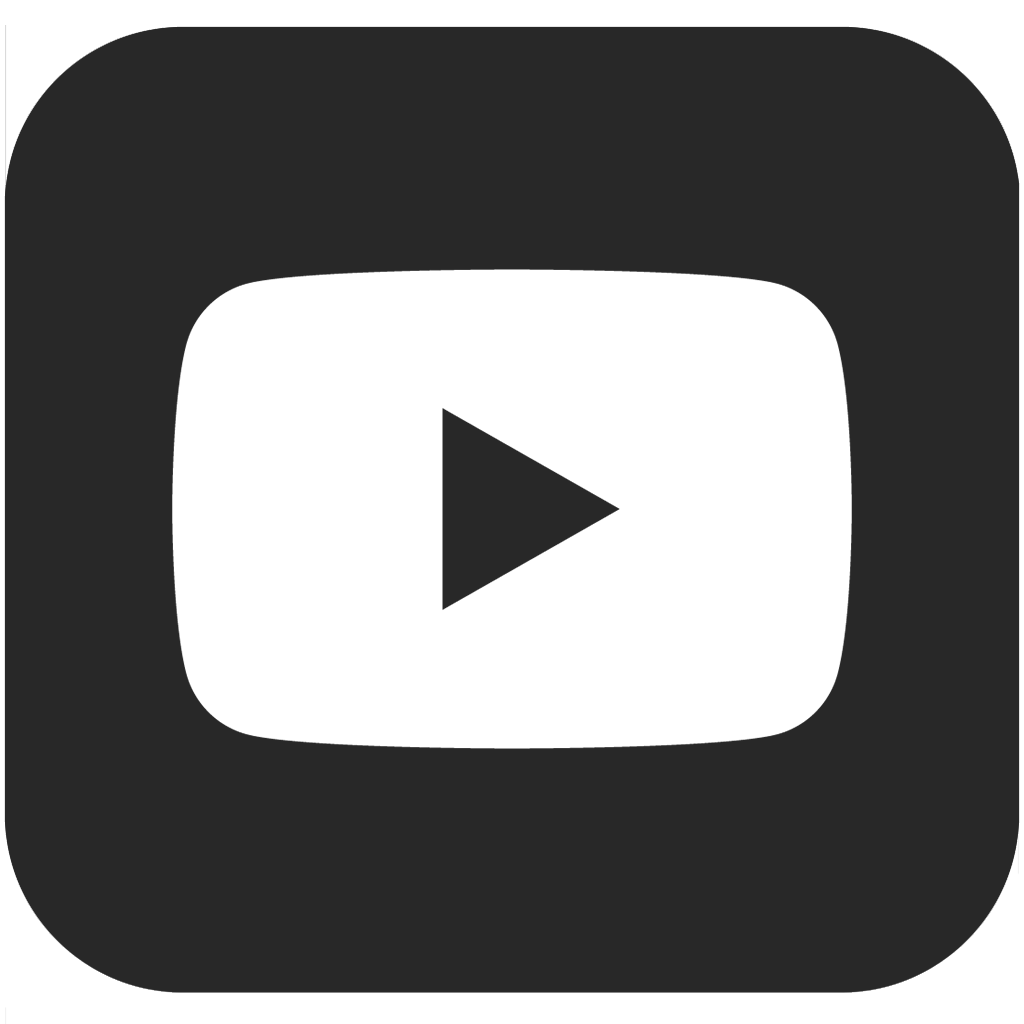
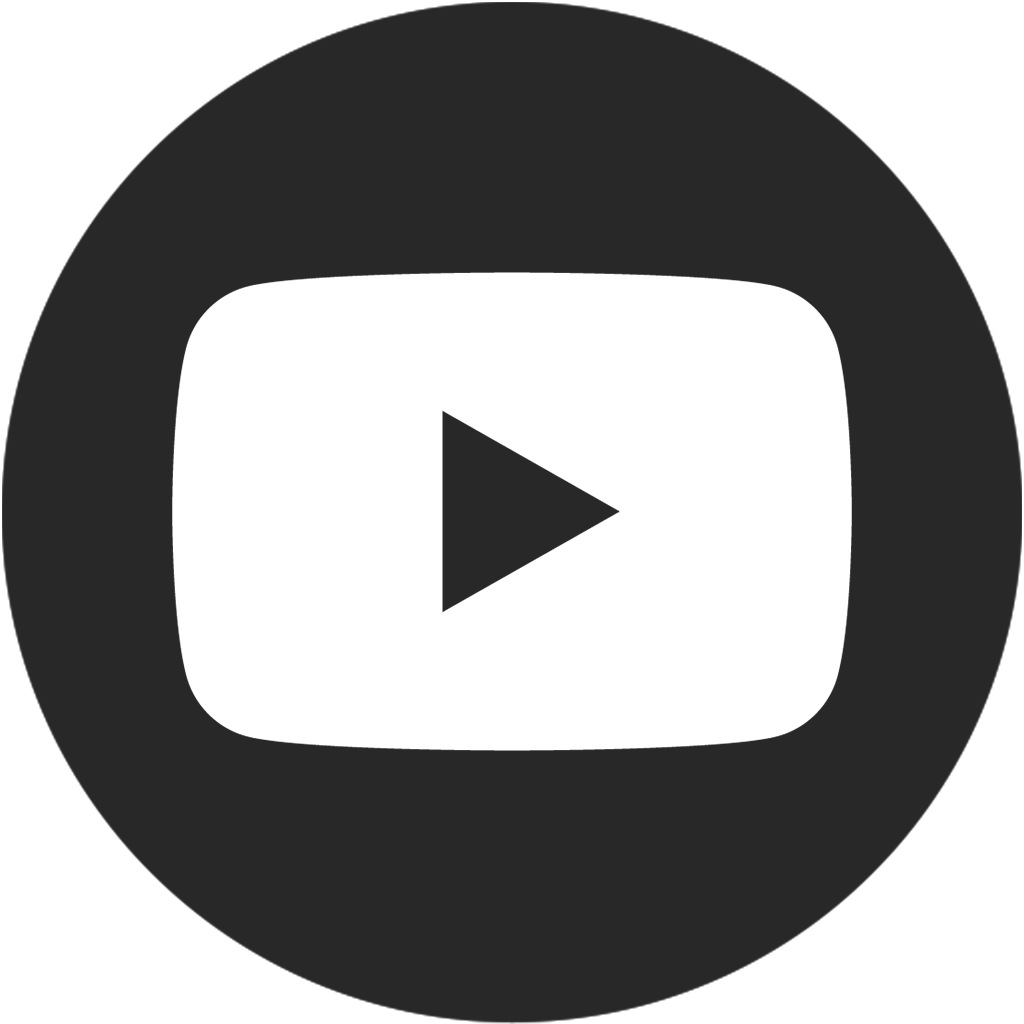
styling and links

diff --git a/src/App.tsx b/src/App.tsx
@@ -30,7 +30,7 @@ function App() {
         <a href="https://github.com/jedwards2"><img alt="github" src={require("./images/github.png")} /></a>
         <a href="https://www.youtube.com/"><img alt="youtube" src={require("./images/youtube.png")} /></a>
         <a href="https://en.wikipedia.org/wiki/Special:Random"><img alt="wikipedia" src={require("./images/wikipedia.png")} /></a>
-        <a href="https://doc.rust-lang.org/book/title-page.html"><img alt="rustbook" src={require("./images/rust.png")} /></a>
+        <a href="https://www.rust-lang.org/learn"><img alt="rustbook" src={require("./images/rust.png")} /></a>
         <a href="https://www.typescriptlang.org/docs/"><img alt="typescript" src={require("./images/typescript.png")} /></a>
         <a href="https://cycling74.com/forums"><img alt="cycling74 forum" src={require("./images/cycling74.png")} /></a>
       </div>

diff --git a/src/App.css b/src/App.css
@@ -42,6 +42,7 @@ html, body, #root {
 
 .link-div img {
   width: 6vh;  
+  border-radius: 50%;
 }
 
 @font-face {
